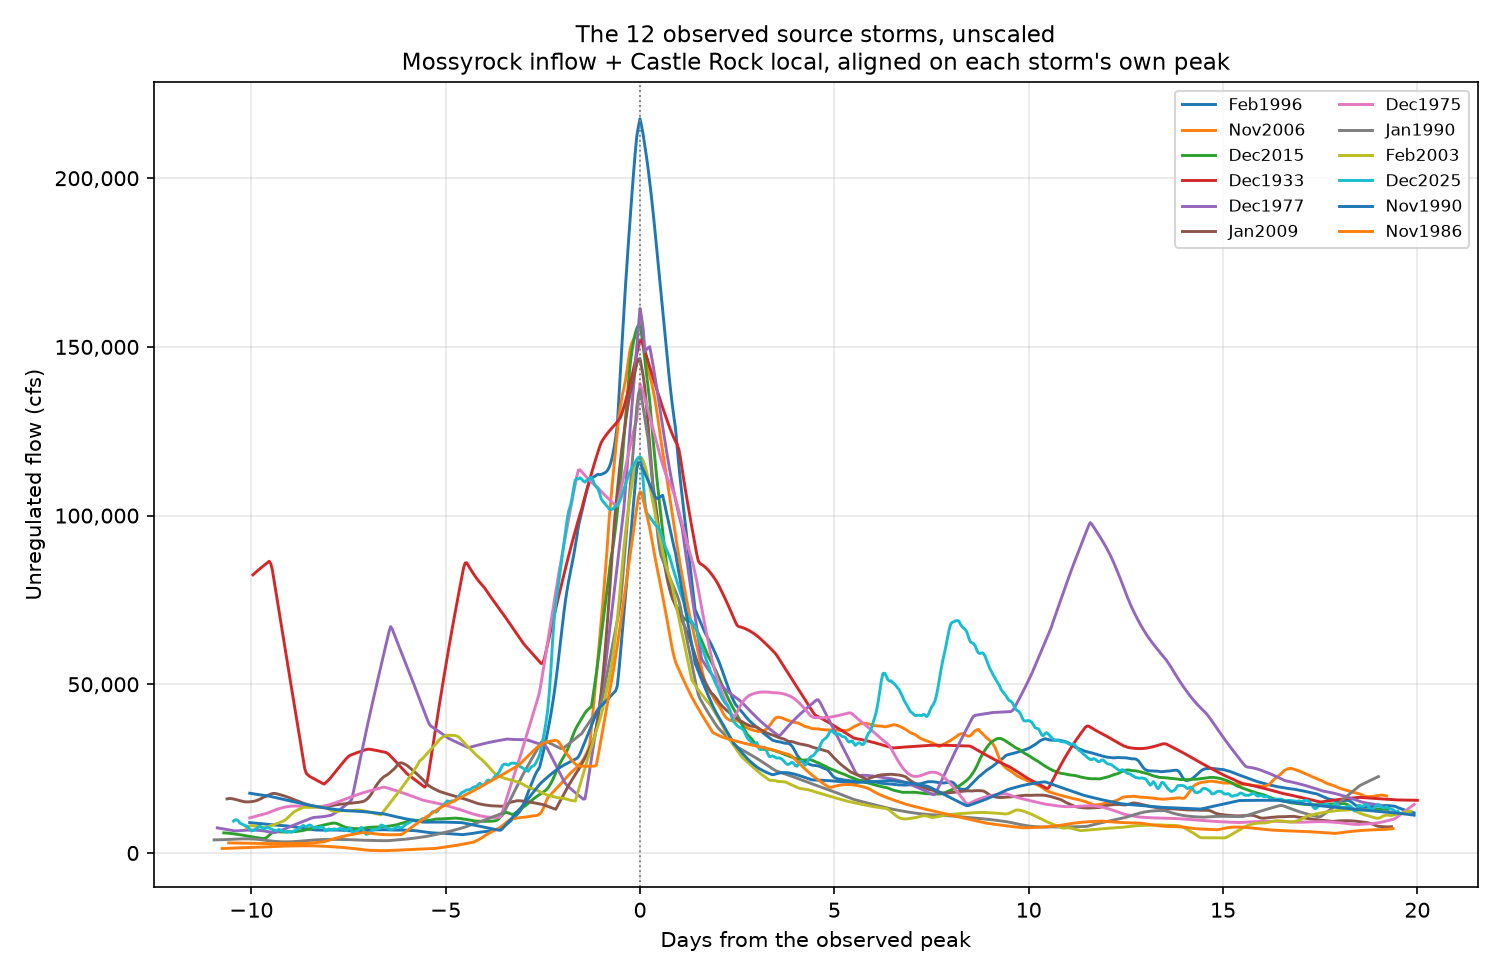
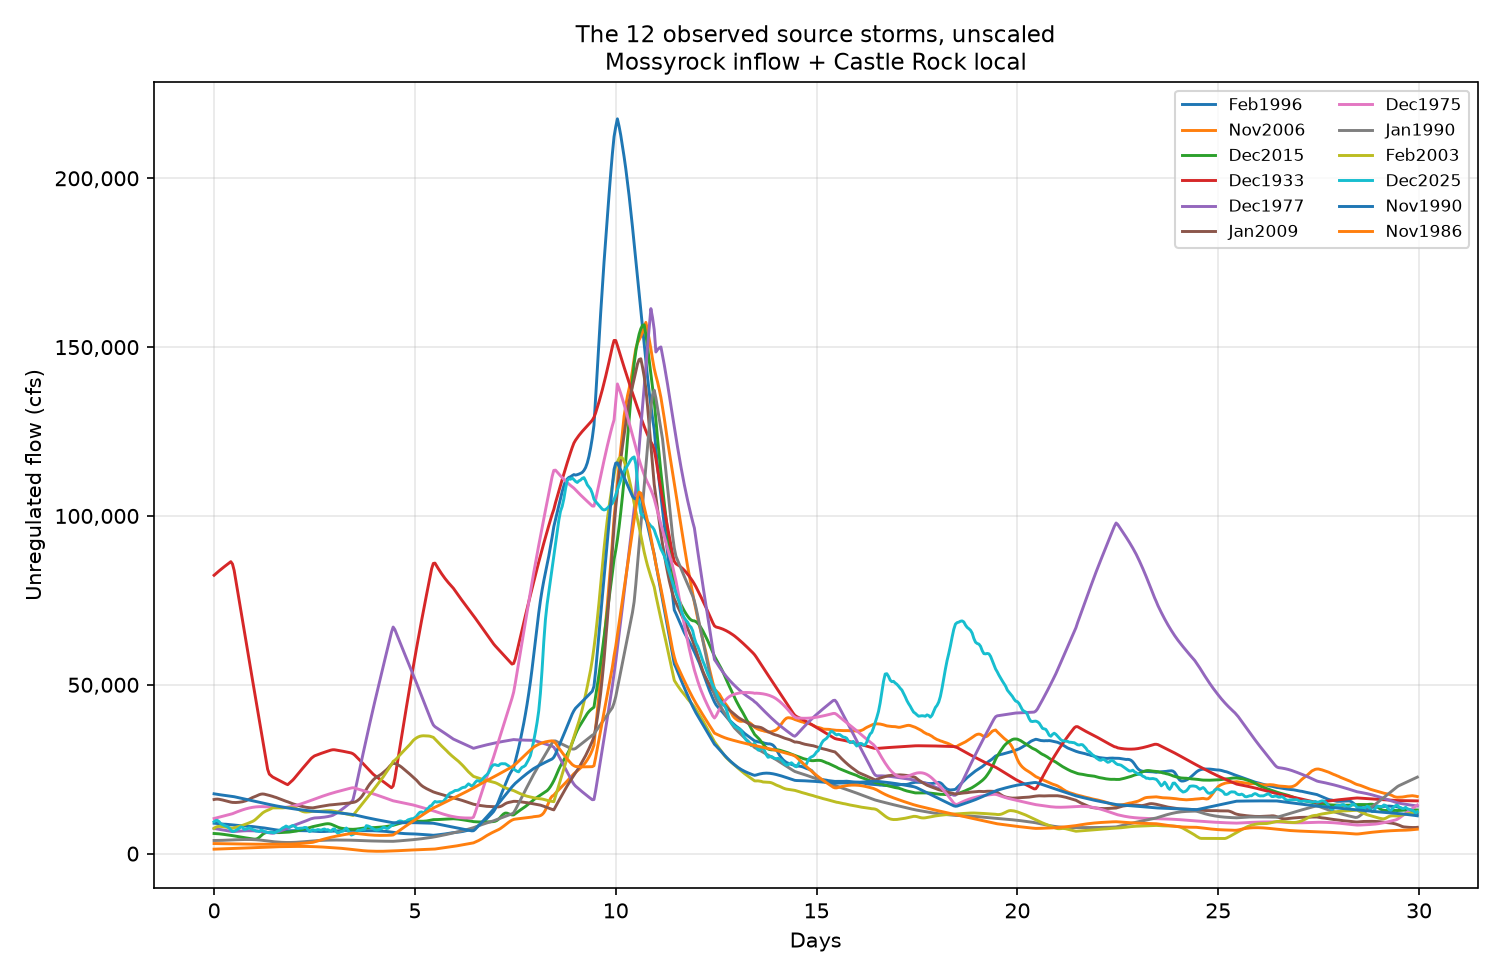
Figure 5-5 x axis is days into the member window
Plotting each storm against days from its own peak forced a negative axis
that could not honestly be labelled "Days". The windows were already cut to
put every peak in the same place, between day 8 and day 11, so dropping the
alignment keeps the shapes comparable and lets the axis run 0 to 30. The
dotted marker at the peak and the "aligned on each storm's own peak" line in
the title both go with it.

Claude-Session: https://claude.ai/code/session_01ApTwGCY7nuLmCs6XdyD2be

diff --git a/CAS_Reg_Unreg/src/#Create_Synthetic_Ensembles.py b/CAS_Reg_Unreg/src/#Create_Synthetic_Ensembles.py
@@ -1022,21 +1022,25 @@ def plot_events_overlay(events, stem):
     """Every source storm on one pair of axes, unscaled.
 
     This is the figure that answers "did you look at a range of shapes?" --
-    the observed hydrographs, no scaling, aligned on their own peak.
+    the observed hydrographs, no scaling.
+
+    The x axis is days into the member window, not days from each storm's own
+    peak. The two are nearly the same picture here, because every window was
+    cut to put its peak in the same place, so the storms stay comparable
+    without the negative axis that peak alignment forces.
     """
     fig, ax = plt.subplots(figsize=(10, 6.5))
     for ev in events:
         v = ev["total"].values
-        hours = (np.arange(len(v)) - float(np.argmax(v))) / 24.0
+        hours = np.arange(len(v)) / 24.0
         ax.plot(hours, v, lw=1.4, label="%s" % ev["label"])
-    ax.axvline(0.0, color="0.5", lw=0.9, ls=":")
-    ax.set_xlabel("Days from the observed peak")
+    ax.set_xlabel("Days")
     ax.set_ylabel("Unregulated flow (cfs)")
     ax.yaxis.set_major_formatter(plt.FuncFormatter(
         lambda v, _: format(int(v), ",")))
     ax.set_title("The %d observed source storms, unscaled\n"
-                 "Mossyrock inflow + Castle Rock local, aligned on each "
-                 "storm's own peak" % len(events), fontsize=11)
+                 "Mossyrock inflow + Castle Rock local"
+                 % len(events), fontsize=11)
     ax.grid(alpha=0.3)
     ax.legend(fontsize=8, ncol=2)
     fig.tight_layout()
